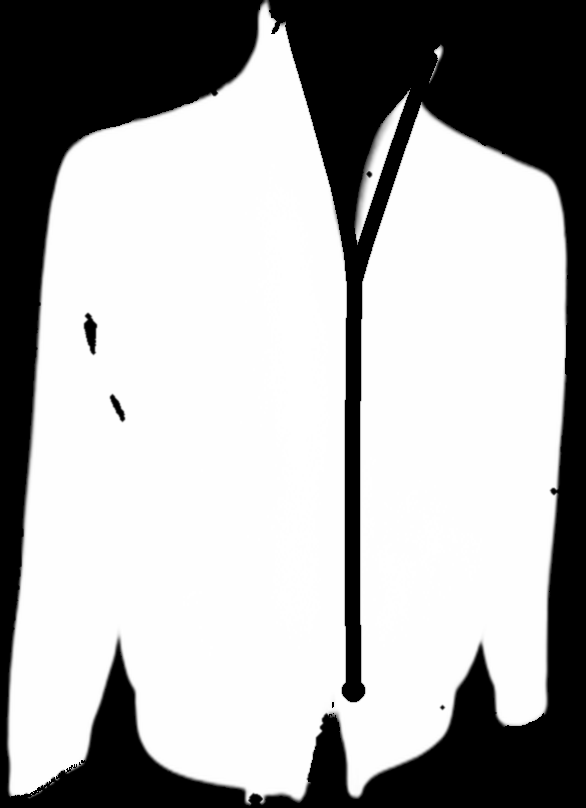
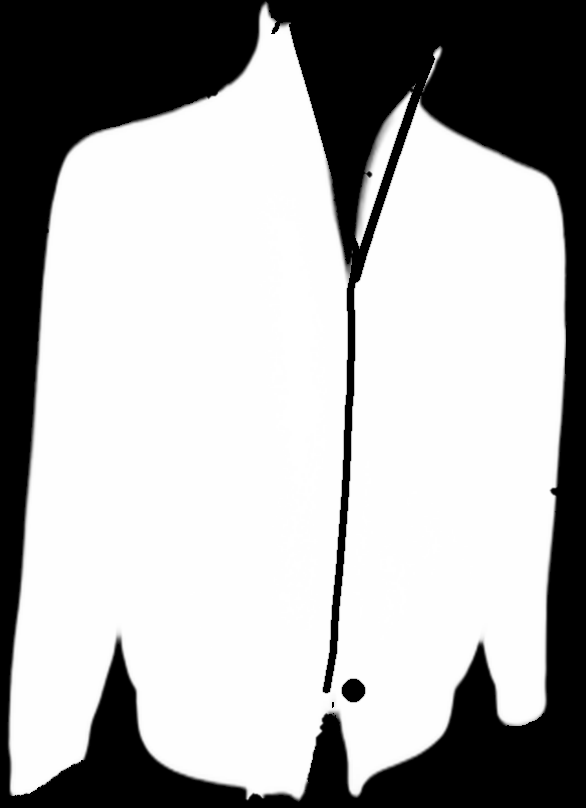
Refine cardigan photo recolouring

diff --git a/silhouettes.html b/silhouettes.html
@@ -343,8 +343,8 @@
           (value <= 0.0031308 ? value * 12.92 : 1.055 * (value ** (1 / 2.4)) - 0.055) * 255
         );
       }
-      const K = 0.6;
-      const GAMMA = 1;
+      const K = 0.18;
+      const GAMMA = 0.65;
       const prefersReducedMotion = window.matchMedia('(prefers-reduced-motion: reduce)');
       let selected = null;
       let visible = null;
@@ -395,7 +395,6 @@
           const pixelCount = photoWidth * photoHeight;
           maskAlpha = new Uint8Array(pixelCount);
           luminance = new Float32Array(pixelCount);
-          const coveredLuminance = [];
           for (let i = 0; i < pixelCount; i += 1) {
             const offset = i * 4;
             const alpha = Math.round(maskPixels[offset] * maskPixels[offset + 3] / 255);
@@ -405,7 +404,32 @@
             const blue = srgbToLinear[originalPixels[offset + 2]];
             const light = 0.2126 * red + 0.7152 * green + 0.0722 * blue;
             luminance[i] = light;
-            if (alpha > 127) coveredLuminance.push(light);
+          }
+          const rawLuminance = luminance;
+          const denoisedLuminance = new Float32Array(pixelCount);
+          const blurKernel = [1, 2, 1];
+          for (let y = 0; y < photoHeight; y += 1) {
+            for (let x = 0; x < photoWidth; x += 1) {
+              let total = 0;
+              let weightTotal = 0;
+              for (let dy = -1; dy <= 1; dy += 1) {
+                const sampleY = y + dy;
+                if (sampleY < 0 || sampleY >= photoHeight) continue;
+                for (let dx = -1; dx <= 1; dx += 1) {
+                  const sampleX = x + dx;
+                  if (sampleX < 0 || sampleX >= photoWidth) continue;
+                  const weight = blurKernel[dy + 1] * blurKernel[dx + 1];
+                  total += rawLuminance[sampleY * photoWidth + sampleX] * weight;
+                  weightTotal += weight;
+                }
+              }
+              denoisedLuminance[y * photoWidth + x] = total / weightTotal;
+            }
+          }
+          luminance = denoisedLuminance;
+          const coveredLuminance = [];
+          for (let i = 0; i < pixelCount; i += 1) {
+            if (maskAlpha[i] > 127) coveredLuminance.push(luminance[i]);
           }
           coveredLuminance.sort((a, b) => a - b);
           const middle = Math.floor(coveredLuminance.length / 2);
@@ -451,7 +475,7 @@
             const alpha = maskAlpha[i] / 255;
             if (alpha === 0) continue;
             let ratio = luminance[i] / luminanceReference;
-            if (GAMMA !== 1) ratio = ratio ** GAMMA;
+            if (ratio <= 1 && GAMMA !== 1) ratio = ratio ** GAMMA;
             const highlight = ratio > 1 ? Math.min(1, (ratio - 1) * K) : 0;
             const shade = ratio <= 1 ? ratio : 0;
             const offset = i * 4;
